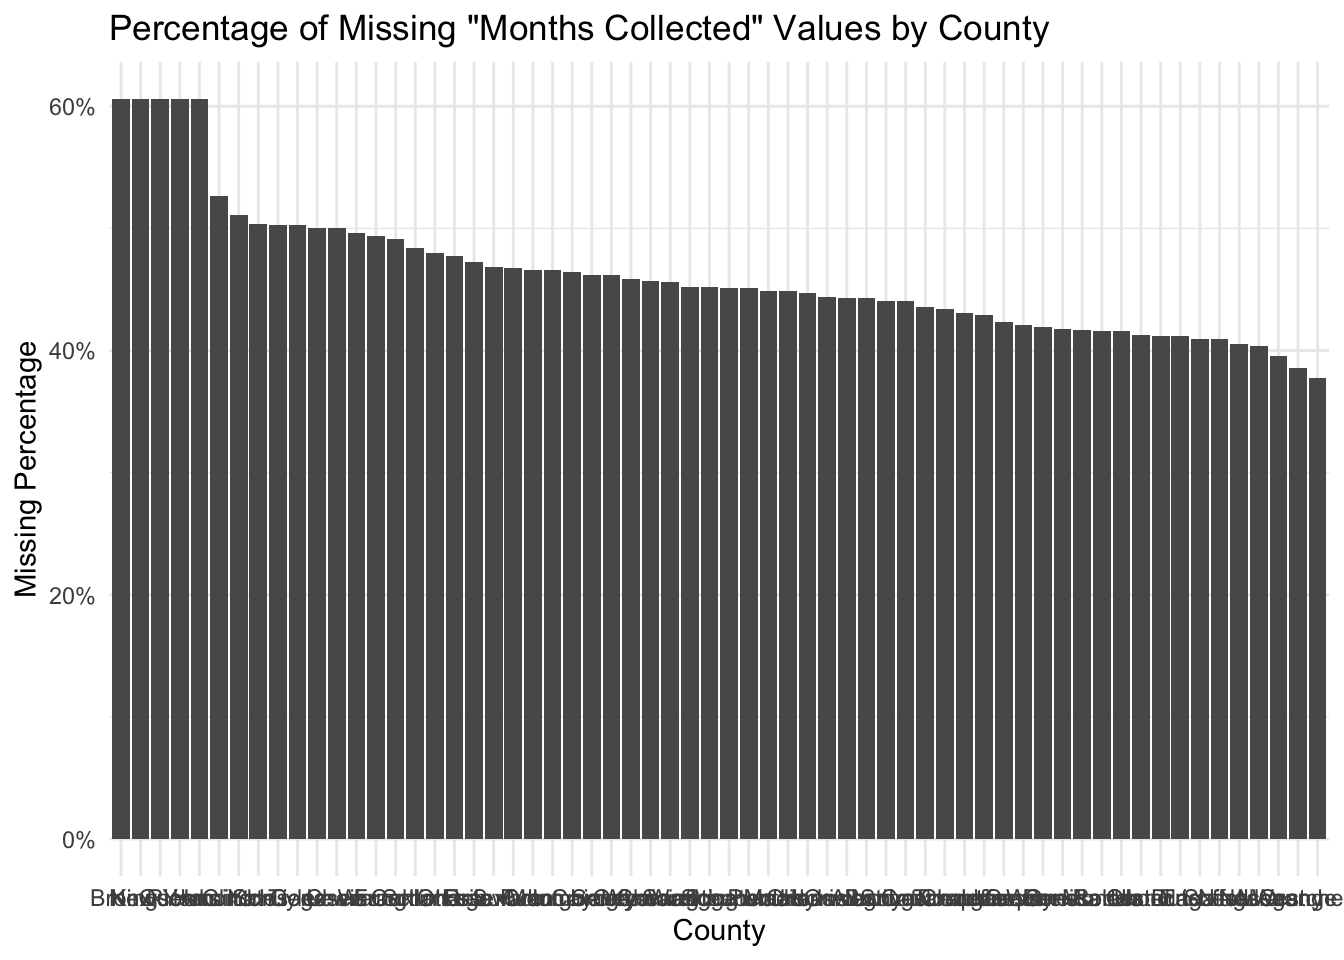
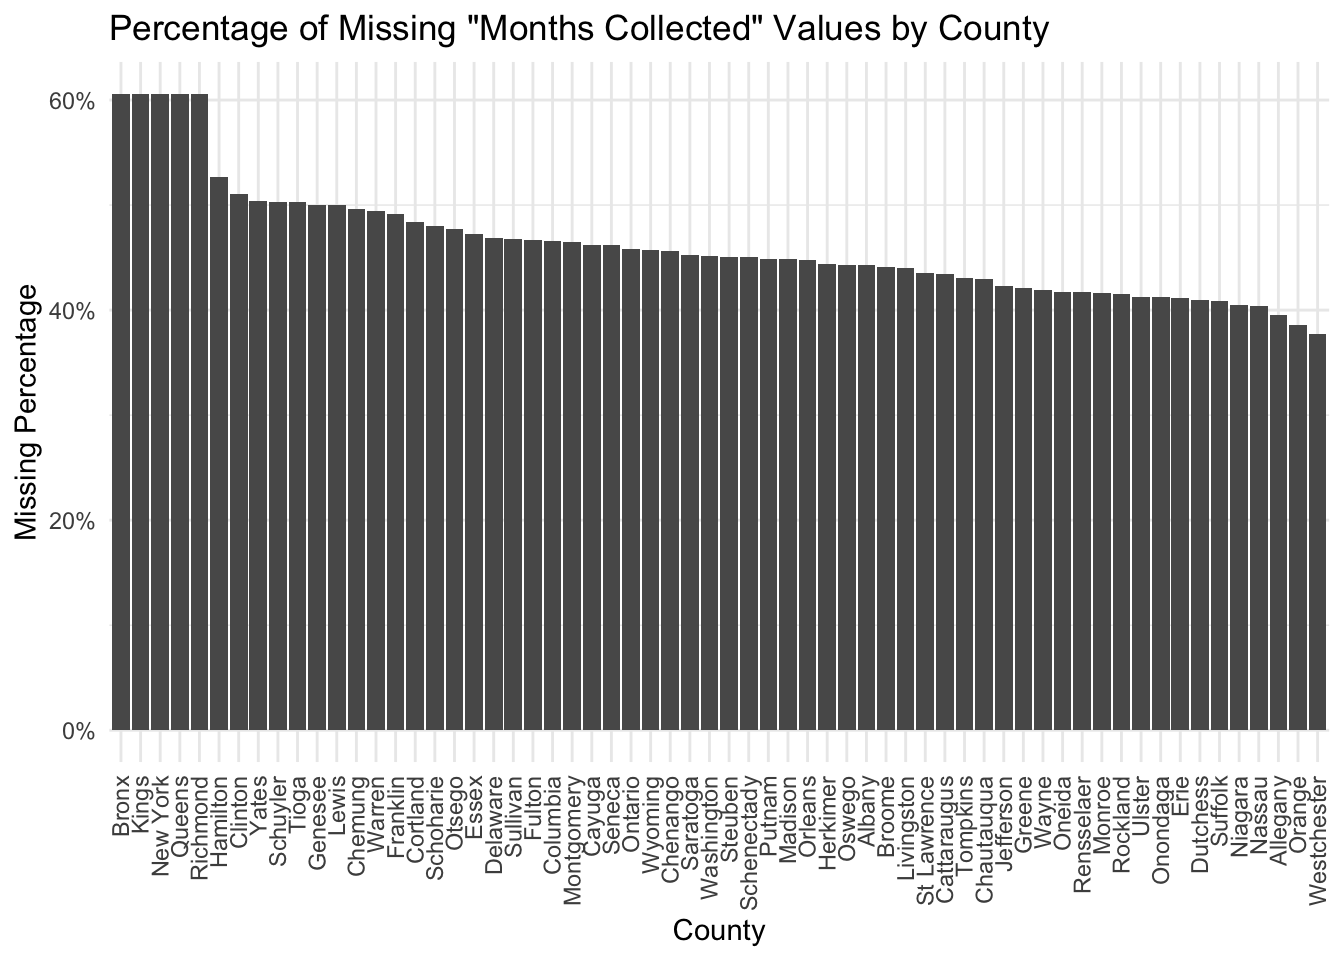
final final final edits

diff --git a/docs/results.html b/docs/results.html
@@ -494,8 +494,8 @@ pre > code.sourceCode > span > a:first-child::before { text-decoration: underlin
 <span id="cb4-31"><a href="#cb4-31" aria-hidden="true" tabindex="-1"></a>  )</span></code><button title="Copy to Clipboard" class="code-copy-button"><i class="bi"></i></button></pre></div>
 </details>
 <div class="cell-output-display">
-<div class="plotly html-widget html-fill-item-overflow-hidden html-fill-item" id="htmlwidget-7d8e270b69ea155e1245" style="width:100%;height:464px;"></div>
-<script type="application/json" data-for="htmlwidget-7d8e270b69ea155e1245">{"x":{"data":[{"x":[314838,46446,1472656,198675,77041,76251,127675,84152,47216,79839,61567,46814,44302,295897,954244,37362,47556,53322,58394,47933,5102,60143,116723,2736075,26580,61842,68012,759444,49526,1395777,1694250,212650,232111,476511,112459,401324,40355,117533,58529,97682,2405464,161138,495749,338329,108502,235499,158058,29718,17894,33811,93577,1525936,78617,48461,105744,181856,65737,61302,91286,1004445,40531,24768],"y":[7.2515463325589673,-0.045969347265202576,10.386649335424874,0.038703704768720121,5.7672795626387723,-4.0619437479806519,-1.7142218549433299,-0.1634879916781011,0.37888621619357882,0.17150720922805807,-0.10917670099567373,6.8869693247986179,0.14332984600535192,-0.20768802678262399,1.332718218633351,-0.087387421528074133,3.7574447639254251,-6.5174579819024538,3.687590398542842,0.30235083018530229,-3.1544074157986,3.1728944003040858,-0.25278164013195836,5.4768617768567553,1.3982890553330503,0.454900644666547,-0.046975269606168435,1.4795632393534188,-2.0454277751927528,4.6040281674396937,15.370216437489113,-3.6337652133083229,2.7565929046350912,0.90996572199397718,-0.038495795968325475,0.46597299492022981,1.2951670991016331,-2.1018740676009231,-0.87293886678341603,1.3924318040592381,6.5279187240879324,1.7478987334302656,4.4508246980520854,0.30770881620207846,1.9031313965594074,2.2598456405400063,4.5808798369273607,-2.3502935376190517,2.5874309872016221,1.9778177763797398,1.1557301904990407,1.7323253016748499,-0.2295021476680266,-1.3576569726678678,2.7918721847827106,-1.1128900064910212,3.8500550445169299,1.1472114917921283,1.4417278583022246,1.0388025515951724,-0.66838417083752222,-1.3566509039806143],"text":["Population:  314838<br />1000 * increase:  7.25154633<br />Albany","Population:   46446<br />1000 * increase: -0.04596935<br />Allegany","Population: 1472656<br />1000 * increase: 10.38664934<br />Bronx","Population:  198675<br />1000 * increase:  0.03870370<br />Broome","Population:   77041<br />1000 * increase:  5.76727956<br />Cattaraugus","Population:   76251<br />1000 * increase: -4.06194375<br />Cayuga","Population:  127675<br />1000 * increase: -1.71422185<br />Chautauqua","Population:   84152<br />1000 * increase: -0.16348799<br />Chemung","Population:   47216<br />1000 * increase:  0.37888622<br />Chenango","Population:   79839<br />1000 * increase:  0.17150721<br />Clinton","Population:   61567<br />1000 * increase: -0.10917670<br />Columbia","Population:   46814<br />1000 * increase:  6.88696932<br />Cortland","Population:   44302<br />1000 * increase:  0.14332985<br />Delaware","Population:  295897<br />1000 * increase: -0.20768803<br />Dutchess","Population:  954244<br />1000 * increase:  1.33271822<br />Erie","Population:   37362<br />1000 * increase: -0.08738742<br />Essex","Population:   47556<br />1000 * increase:  3.75744476<br />Franklin","Population:   53322<br />1000 * increase: -6.51745798<br />Fulton","Population:   58394<br />1000 * increase:  3.68759040<br />Genesee","Population:   47933<br />1000 * increase:  0.30235083<br />Greene","Population:    5102<br />1000 * increase: -3.15440742<br />Hamilton","Population:   60143<br />1000 * increase:  3.17289440<br />Herkimer","Population:  116723<br />1000 * increase: -0.25278164<br />Jefferson","Population: 2736075<br />1000 * increase:  5.47686178<br />Kings","Population:   26580<br />1000 * increase:  1.39828906<br />Lewis","Population:   61842<br />1000 * increase:  0.45490064<br />Livingston","Population:   68012<br />1000 * increase: -0.04697527<br />Madison","Population:  759444<br />1000 * increase:  1.47956324<br />Monroe","Population:   49526<br />1000 * increase: -2.04542778<br />Montgomery","Population: 1395777<br />1000 * increase:  4.60402817<br />Nassau","Population: 1694250<br />1000 * increase: 15.37021644<br />New York","Population:  212650<br />1000 * increase: -3.63376521<br />Niagara","Population:  232111<br />1000 * increase:  2.75659290<br />Oneida","Population:  476511<br />1000 * increase:  0.90996572<br />Onondaga","Population:  112459<br />1000 * increase: -0.03849580<br />Ontario","Population:  401324<br />1000 * increase:  0.46597299<br />Orange","Population:   40355<br />1000 * increase:  1.29516710<br />Orleans","Population:  117533<br />1000 * increase: -2.10187407<br />Oswego","Population:   58529<br />1000 * increase: -0.87293887<br />Otsego","Population:   97682<br />1000 * increase:  1.39243180<br />Putnam","Population: 2405464<br />1000 * increase:  6.52791872<br />Queens","Population:  161138<br />1000 * increase:  1.74789873<br />Rensselaer","Population:  495749<br />1000 * increase:  4.45082470<br />Richmond","Population:  338329<br />1000 * increase:  0.30770882<br />Rockland","Population:  108502<br />1000 * increase:  1.90313140<br />St Lawrence","Population:  235499<br />1000 * increase:  2.25984564<br />Saratoga","Population:  158058<br />1000 * increase:  4.58087984<br />Schenectady","Population:   29718<br />1000 * increase: -2.35029354<br />Schoharie","Population:   17894<br />1000 * increase:  2.58743099<br />Schuyler","Population:   33811<br />1000 * increase:  1.97781778<br />Seneca","Population:   93577<br />1000 * increase:  1.15573019<br />Steuben","Population: 1525936<br />1000 * increase:  1.73232530<br />Suffolk","Population:   78617<br />1000 * increase: -0.22950215<br />Sullivan","Population:   48461<br />1000 * increase: -1.35765697<br />Tioga","Population:  105744<br />1000 * increase:  2.79187218<br />Tompkins","Population:  181856<br />1000 * increase: -1.11289001<br />Ulster","Population:   65737<br />1000 * increase:  3.85005504<br />Warren","Population:   61302<br />1000 * increase:  1.14721149<br />Washington","Population:   91286<br />1000 * increase:  1.44172786<br />Wayne","Population: 1004445<br />1000 * increase:  1.03880255<br />Westchester","Population:   40531<br />1000 * increase: -0.66838417<br />Wyoming","Population:   24768<br />1000 * increase: -1.35665090<br />Yates"],"type":"scatter","mode":"markers","marker":{"autocolorscale":false,"color":"rgba(0,0,0,1)","opacity":1,"size":5.6692913385826778,"symbol":"circle","line":{"width":1.8897637795275593,"color":"rgba(0,0,0,1)"}},"hoveron":"points","showlegend":false,"xaxis":"x","yaxis":"y","hoverinfo":"text","frame":null}],"layout":{"margin":{"t":43.762557077625573,"r":7.3059360730593621,"b":40.182648401826498,"l":37.260273972602747},"font":{"color":"rgba(0,0,0,1)","family":"","size":14.611872146118724},"title":{"text":"Change in crime rates from 2020 to 2022 vs population","font":{"color":"rgba(0,0,0,1)","family":"","size":17.534246575342465},"x":0,"xref":"paper"},"xaxis":{"domain":[0,1],"automargin":true,"type":"linear","autorange":false,"range":[-131446.64999999999,2872623.6499999999],"tickmode":"auto","ticktext":["0","1000000","2000000"],"tickvals":[0,999999.99999999988,2000000],"categoryorder":"array","categoryarray":["0","1000000","2000000"],"nticks":20,"ticks":"","tickcolor":null,"ticklen":3.6529680365296811,"tickwidth":0,"showticklabels":true,"tickfont":{"color":"rgba(77,77,77,1)","family":"","size":11.68949771689498},"tickangle":-0,"showline":false,"linecolor":null,"linewidth":0,"showgrid":true,"gridcolor":"rgba(235,235,235,1)","gridwidth":0.66417600664176002,"zeroline":false,"anchor":"y","title":{"text":"Population (in Millions)","font":{"color":"rgba(0,0,0,1)","family":"","size":14.611872146118724}},"hoverformat":".2f"},"yaxis":{"domain":[0,1],"automargin":true,"type":"linear","autorange":false,"range":[-7.6118417028720327,16.464600158458691],"tickmode":"auto","ticktext":["-5","0","5","10","15"],"tickvals":[-5,0,5,10.000000000000002,15.000000000000002],"categoryorder":"array","categoryarray":["-5","0","5","10","15"],"nticks":20,"ticks":"","tickcolor":null,"ticklen":3.6529680365296811,"tickwidth":0,"showticklabels":true,"tickfont":{"color":"rgba(77,77,77,1)","family":"","size":11.68949771689498},"tickangle":-0,"showline":false,"linecolor":null,"linewidth":0,"showgrid":true,"gridcolor":"rgba(235,235,235,1)","gridwidth":0.66417600664176002,"zeroline":false,"anchor":"x","title":{"text":"Crime rate (per 1,000) change","font":{"color":"rgba(0,0,0,1)","family":"","size":14.611872146118724}},"hoverformat":".2f"},"shapes":[{"type":"rect","fillcolor":null,"line":{"color":null,"width":0,"linetype":[]},"yref":"paper","xref":"paper","x0":0,"x1":1,"y0":0,"y1":1}],"showlegend":false,"legend":{"bgcolor":null,"bordercolor":null,"borderwidth":0,"font":{"color":"rgba(0,0,0,1)","family":"","size":11.68949771689498}},"hovermode":"closest","barmode":"relative"},"config":{"doubleClick":"reset","modeBarButtonsToAdd":["hoverclosest","hovercompare"],"showSendToCloud":false},"source":"A","attrs":{"b134719c42a9":{"x":{},"y":{},"text":{},"type":"scatter"}},"cur_data":"b134719c42a9","visdat":{"b134719c42a9":["function (y) ","x"]},"highlight":{"on":"plotly_click","persistent":false,"dynamic":false,"selectize":false,"opacityDim":0.20000000000000001,"selected":{"opacity":1},"debounce":0},"shinyEvents":["plotly_hover","plotly_click","plotly_selected","plotly_relayout","plotly_brushed","plotly_brushing","plotly_clickannotation","plotly_doubleclick","plotly_deselect","plotly_afterplot","plotly_sunburstclick"],"base_url":"https://plot.ly"},"evals":[],"jsHooks":[]}</script>
+<div class="plotly html-widget html-fill-item-overflow-hidden html-fill-item" id="htmlwidget-4979c8bbd66faa65150f" style="width:100%;height:464px;"></div>
+<script type="application/json" data-for="htmlwidget-4979c8bbd66faa65150f">{"x":{"data":[{"x":[314838,46446,1472656,198675,77041,76251,127675,84152,47216,79839,61567,46814,44302,295897,954244,37362,47556,53322,58394,47933,5102,60143,116723,2736075,26580,61842,68012,759444,49526,1395777,1694250,212650,232111,476511,112459,401324,40355,117533,58529,97682,2405464,161138,495749,338329,108502,235499,158058,29718,17894,33811,93577,1525936,78617,48461,105744,181856,65737,61302,91286,1004445,40531,24768],"y":[7.2515463325589673,-0.045969347265202576,10.386649335424874,0.038703704768720121,5.7672795626387723,-4.0619437479806519,-1.7142218549433299,-0.1634879916781011,0.37888621619357882,0.17150720922805807,-0.10917670099567373,6.8869693247986179,0.14332984600535192,-0.20768802678262399,1.332718218633351,-0.087387421528074133,3.7574447639254251,-6.5174579819024538,3.687590398542842,0.30235083018530229,-3.1544074157986,3.1728944003040858,-0.25278164013195836,5.4768617768567553,1.3982890553330503,0.454900644666547,-0.046975269606168435,1.4795632393534188,-2.0454277751927528,4.6040281674396937,15.370216437489113,-3.6337652133083229,2.7565929046350912,0.90996572199397718,-0.038495795968325475,0.46597299492022981,1.2951670991016331,-2.1018740676009231,-0.87293886678341603,1.3924318040592381,6.5279187240879324,1.7478987334302656,4.4508246980520854,0.30770881620207846,1.9031313965594074,2.2598456405400063,4.5808798369273607,-2.3502935376190517,2.5874309872016221,1.9778177763797398,1.1557301904990407,1.7323253016748499,-0.2295021476680266,-1.3576569726678678,2.7918721847827106,-1.1128900064910212,3.8500550445169299,1.1472114917921283,1.4417278583022246,1.0388025515951724,-0.66838417083752222,-1.3566509039806143],"text":["Population:  314838<br />1000 * increase:  7.25154633<br />Albany","Population:   46446<br />1000 * increase: -0.04596935<br />Allegany","Population: 1472656<br />1000 * increase: 10.38664934<br />Bronx","Population:  198675<br />1000 * increase:  0.03870370<br />Broome","Population:   77041<br />1000 * increase:  5.76727956<br />Cattaraugus","Population:   76251<br />1000 * increase: -4.06194375<br />Cayuga","Population:  127675<br />1000 * increase: -1.71422185<br />Chautauqua","Population:   84152<br />1000 * increase: -0.16348799<br />Chemung","Population:   47216<br />1000 * increase:  0.37888622<br />Chenango","Population:   79839<br />1000 * increase:  0.17150721<br />Clinton","Population:   61567<br />1000 * increase: -0.10917670<br />Columbia","Population:   46814<br />1000 * increase:  6.88696932<br />Cortland","Population:   44302<br />1000 * increase:  0.14332985<br />Delaware","Population:  295897<br />1000 * increase: -0.20768803<br />Dutchess","Population:  954244<br />1000 * increase:  1.33271822<br />Erie","Population:   37362<br />1000 * increase: -0.08738742<br />Essex","Population:   47556<br />1000 * increase:  3.75744476<br />Franklin","Population:   53322<br />1000 * increase: -6.51745798<br />Fulton","Population:   58394<br />1000 * increase:  3.68759040<br />Genesee","Population:   47933<br />1000 * increase:  0.30235083<br />Greene","Population:    5102<br />1000 * increase: -3.15440742<br />Hamilton","Population:   60143<br />1000 * increase:  3.17289440<br />Herkimer","Population:  116723<br />1000 * increase: -0.25278164<br />Jefferson","Population: 2736075<br />1000 * increase:  5.47686178<br />Kings","Population:   26580<br />1000 * increase:  1.39828906<br />Lewis","Population:   61842<br />1000 * increase:  0.45490064<br />Livingston","Population:   68012<br />1000 * increase: -0.04697527<br />Madison","Population:  759444<br />1000 * increase:  1.47956324<br />Monroe","Population:   49526<br />1000 * increase: -2.04542778<br />Montgomery","Population: 1395777<br />1000 * increase:  4.60402817<br />Nassau","Population: 1694250<br />1000 * increase: 15.37021644<br />New York","Population:  212650<br />1000 * increase: -3.63376521<br />Niagara","Population:  232111<br />1000 * increase:  2.75659290<br />Oneida","Population:  476511<br />1000 * increase:  0.90996572<br />Onondaga","Population:  112459<br />1000 * increase: -0.03849580<br />Ontario","Population:  401324<br />1000 * increase:  0.46597299<br />Orange","Population:   40355<br />1000 * increase:  1.29516710<br />Orleans","Population:  117533<br />1000 * increase: -2.10187407<br />Oswego","Population:   58529<br />1000 * increase: -0.87293887<br />Otsego","Population:   97682<br />1000 * increase:  1.39243180<br />Putnam","Population: 2405464<br />1000 * increase:  6.52791872<br />Queens","Population:  161138<br />1000 * increase:  1.74789873<br />Rensselaer","Population:  495749<br />1000 * increase:  4.45082470<br />Richmond","Population:  338329<br />1000 * increase:  0.30770882<br />Rockland","Population:  108502<br />1000 * increase:  1.90313140<br />St Lawrence","Population:  235499<br />1000 * increase:  2.25984564<br />Saratoga","Population:  158058<br />1000 * increase:  4.58087984<br />Schenectady","Population:   29718<br />1000 * increase: -2.35029354<br />Schoharie","Population:   17894<br />1000 * increase:  2.58743099<br />Schuyler","Population:   33811<br />1000 * increase:  1.97781778<br />Seneca","Population:   93577<br />1000 * increase:  1.15573019<br />Steuben","Population: 1525936<br />1000 * increase:  1.73232530<br />Suffolk","Population:   78617<br />1000 * increase: -0.22950215<br />Sullivan","Population:   48461<br />1000 * increase: -1.35765697<br />Tioga","Population:  105744<br />1000 * increase:  2.79187218<br />Tompkins","Population:  181856<br />1000 * increase: -1.11289001<br />Ulster","Population:   65737<br />1000 * increase:  3.85005504<br />Warren","Population:   61302<br />1000 * increase:  1.14721149<br />Washington","Population:   91286<br />1000 * increase:  1.44172786<br />Wayne","Population: 1004445<br />1000 * increase:  1.03880255<br />Westchester","Population:   40531<br />1000 * increase: -0.66838417<br />Wyoming","Population:   24768<br />1000 * increase: -1.35665090<br />Yates"],"type":"scatter","mode":"markers","marker":{"autocolorscale":false,"color":"rgba(0,0,0,1)","opacity":1,"size":5.6692913385826778,"symbol":"circle","line":{"width":1.8897637795275593,"color":"rgba(0,0,0,1)"}},"hoveron":"points","showlegend":false,"xaxis":"x","yaxis":"y","hoverinfo":"text","frame":null}],"layout":{"margin":{"t":43.762557077625573,"r":7.3059360730593621,"b":40.182648401826498,"l":37.260273972602747},"font":{"color":"rgba(0,0,0,1)","family":"","size":14.611872146118724},"title":{"text":"Change in crime rates from 2020 to 2022 vs population","font":{"color":"rgba(0,0,0,1)","family":"","size":17.534246575342465},"x":0,"xref":"paper"},"xaxis":{"domain":[0,1],"automargin":true,"type":"linear","autorange":false,"range":[-131446.64999999999,2872623.6499999999],"tickmode":"auto","ticktext":["0","1000000","2000000"],"tickvals":[0,999999.99999999988,2000000],"categoryorder":"array","categoryarray":["0","1000000","2000000"],"nticks":20,"ticks":"","tickcolor":null,"ticklen":3.6529680365296811,"tickwidth":0,"showticklabels":true,"tickfont":{"color":"rgba(77,77,77,1)","family":"","size":11.68949771689498},"tickangle":-0,"showline":false,"linecolor":null,"linewidth":0,"showgrid":true,"gridcolor":"rgba(235,235,235,1)","gridwidth":0.66417600664176002,"zeroline":false,"anchor":"y","title":{"text":"Population (in Millions)","font":{"color":"rgba(0,0,0,1)","family":"","size":14.611872146118724}},"hoverformat":".2f"},"yaxis":{"domain":[0,1],"automargin":true,"type":"linear","autorange":false,"range":[-7.6118417028720327,16.464600158458691],"tickmode":"auto","ticktext":["-5","0","5","10","15"],"tickvals":[-5,0,5,10.000000000000002,15.000000000000002],"categoryorder":"array","categoryarray":["-5","0","5","10","15"],"nticks":20,"ticks":"","tickcolor":null,"ticklen":3.6529680365296811,"tickwidth":0,"showticklabels":true,"tickfont":{"color":"rgba(77,77,77,1)","family":"","size":11.68949771689498},"tickangle":-0,"showline":false,"linecolor":null,"linewidth":0,"showgrid":true,"gridcolor":"rgba(235,235,235,1)","gridwidth":0.66417600664176002,"zeroline":false,"anchor":"x","title":{"text":"Crime rate (per 1,000) change","font":{"color":"rgba(0,0,0,1)","family":"","size":14.611872146118724}},"hoverformat":".2f"},"shapes":[{"type":"rect","fillcolor":null,"line":{"color":null,"width":0,"linetype":[]},"yref":"paper","xref":"paper","x0":0,"x1":1,"y0":0,"y1":1}],"showlegend":false,"legend":{"bgcolor":null,"bordercolor":null,"borderwidth":0,"font":{"color":"rgba(0,0,0,1)","family":"","size":11.68949771689498}},"hovermode":"closest","barmode":"relative"},"config":{"doubleClick":"reset","modeBarButtonsToAdd":["hoverclosest","hovercompare"],"showSendToCloud":false},"source":"A","attrs":{"b67f21ee98f":{"x":{},"y":{},"text":{},"type":"scatter"}},"cur_data":"b67f21ee98f","visdat":{"b67f21ee98f":["function (y) ","x"]},"highlight":{"on":"plotly_click","persistent":false,"dynamic":false,"selectize":false,"opacityDim":0.20000000000000001,"selected":{"opacity":1},"debounce":0},"shinyEvents":["plotly_hover","plotly_click","plotly_selected","plotly_relayout","plotly_brushed","plotly_brushing","plotly_clickannotation","plotly_doubleclick","plotly_deselect","plotly_afterplot","plotly_sunburstclick"],"base_url":"https://plot.ly"},"evals":[],"jsHooks":[]}</script>
 </div>
 </div>
 <p>We indeed observe a relatively clear positive correlation of county population size against the change in crime rates between 2020 and 2022. As a matter of fact, a bit more massaging of the data shows that a very good interpolating function would be something like the square root of the population.</p>

diff --git a/docs/data.html b/docs/data.html
@@ -269,8 +269,8 @@ pre > code.sourceCode > span > a:first-child::before { text-decoration: underlin
 <span id="cb1-14"><a href="#cb1-14" aria-hidden="true" tabindex="-1"></a>  <span class="fu">labs</span>(<span class="at">title =</span> <span class="st">"Percentage of Missing </span><span class="sc">\"</span><span class="st">Months Collected</span><span class="sc">\"</span><span class="st"> Values by County"</span>,</span>
 <span id="cb1-15"><a href="#cb1-15" aria-hidden="true" tabindex="-1"></a>       <span class="at">x =</span> <span class="st">"County"</span>, <span class="at">y =</span> <span class="st">"Missing Percentage"</span>) <span class="sc">+</span></span>
 <span id="cb1-16"><a href="#cb1-16" aria-hidden="true" tabindex="-1"></a>  <span class="fu">scale_y_continuous</span>(<span class="at">labels =</span> scales<span class="sc">::</span><span class="fu">percent_format</span>(<span class="at">scale =</span> <span class="dv">1</span>)) <span class="sc">+</span></span>
-<span id="cb1-17"><a href="#cb1-17" aria-hidden="true" tabindex="-1"></a>  <span class="fu">theme</span>(<span class="at">axis.text.x =</span> <span class="fu">element_text</span>(<span class="at">angle =</span> <span class="dv">90</span>, <span class="at">vjust =</span> <span class="fl">0.5</span>, <span class="at">hjust =</span> <span class="dv">1</span>)) <span class="sc">+</span></span>
-<span id="cb1-18"><a href="#cb1-18" aria-hidden="true" tabindex="-1"></a>  <span class="fu">theme_minimal</span>()</span></code><button title="Copy to Clipboard" class="code-copy-button"><i class="bi"></i></button></pre></div>
+<span id="cb1-17"><a href="#cb1-17" aria-hidden="true" tabindex="-1"></a>  <span class="fu">theme_minimal</span>() <span class="sc">+</span></span>
+<span id="cb1-18"><a href="#cb1-18" aria-hidden="true" tabindex="-1"></a>  <span class="fu">theme</span>(<span class="at">axis.text.x =</span> <span class="fu">element_text</span>(<span class="at">angle =</span> <span class="dv">90</span>, <span class="at">vjust =</span> <span class="fl">0.5</span>, <span class="at">hjust =</span> <span class="dv">1</span>)) </span></code><button title="Copy to Clipboard" class="code-copy-button"><i class="bi"></i></button></pre></div>
 </details>
 <div class="cell-output-display">
 <p><img src="data_files/figure-html/unnamed-chunk-2-1.png" class="img-fluid" width="672"></p>
@@ -302,8 +302,8 @@ pre > code.sourceCode > span > a:first-child::before { text-decoration: underlin
 <span id="cb2-19"><a href="#cb2-19" aria-hidden="true" tabindex="-1"></a>       <span class="at">x =</span> <span class="st">"County"</span>, </span>
 <span id="cb2-20"><a href="#cb2-20" aria-hidden="true" tabindex="-1"></a>       <span class="at">y =</span> <span class="st">"Percentage of &lt;12 vs 12 Months Collected"</span>) <span class="sc">+</span></span>
 <span id="cb2-21"><a href="#cb2-21" aria-hidden="true" tabindex="-1"></a>  <span class="fu">scale_y_continuous</span>(<span class="at">labels =</span> scales<span class="sc">::</span><span class="fu">percent_format</span>(<span class="at">scale =</span> <span class="dv">1</span>)) <span class="sc">+</span></span>
-<span id="cb2-22"><a href="#cb2-22" aria-hidden="true" tabindex="-1"></a>  <span class="fu">theme</span>(<span class="at">axis.text.x =</span> <span class="fu">element_text</span>(<span class="at">angle =</span> <span class="dv">90</span>, <span class="at">vjust =</span> <span class="fl">0.5</span>, <span class="at">hjust =</span> <span class="dv">1</span>)) <span class="sc">+</span></span>
-<span id="cb2-23"><a href="#cb2-23" aria-hidden="true" tabindex="-1"></a>  <span class="fu">theme_minimal</span>()</span></code><button title="Copy to Clipboard" class="code-copy-button"><i class="bi"></i></button></pre></div>
+<span id="cb2-22"><a href="#cb2-22" aria-hidden="true" tabindex="-1"></a>  <span class="fu">theme_minimal</span>() <span class="sc">+</span></span>
+<span id="cb2-23"><a href="#cb2-23" aria-hidden="true" tabindex="-1"></a>  <span class="fu">theme</span>(<span class="at">axis.text.x =</span> <span class="fu">element_text</span>(<span class="at">angle =</span> <span class="dv">90</span>, <span class="at">vjust =</span> <span class="fl">0.5</span>, <span class="at">hjust =</span> <span class="dv">1</span>)) </span></code><button title="Copy to Clipboard" class="code-copy-button"><i class="bi"></i></button></pre></div>
 </details>
 <div class="cell-output-display">
 <p><img src="data_files/figure-html/unnamed-chunk-3-1.png" class="img-fluid" width="672"></p>
